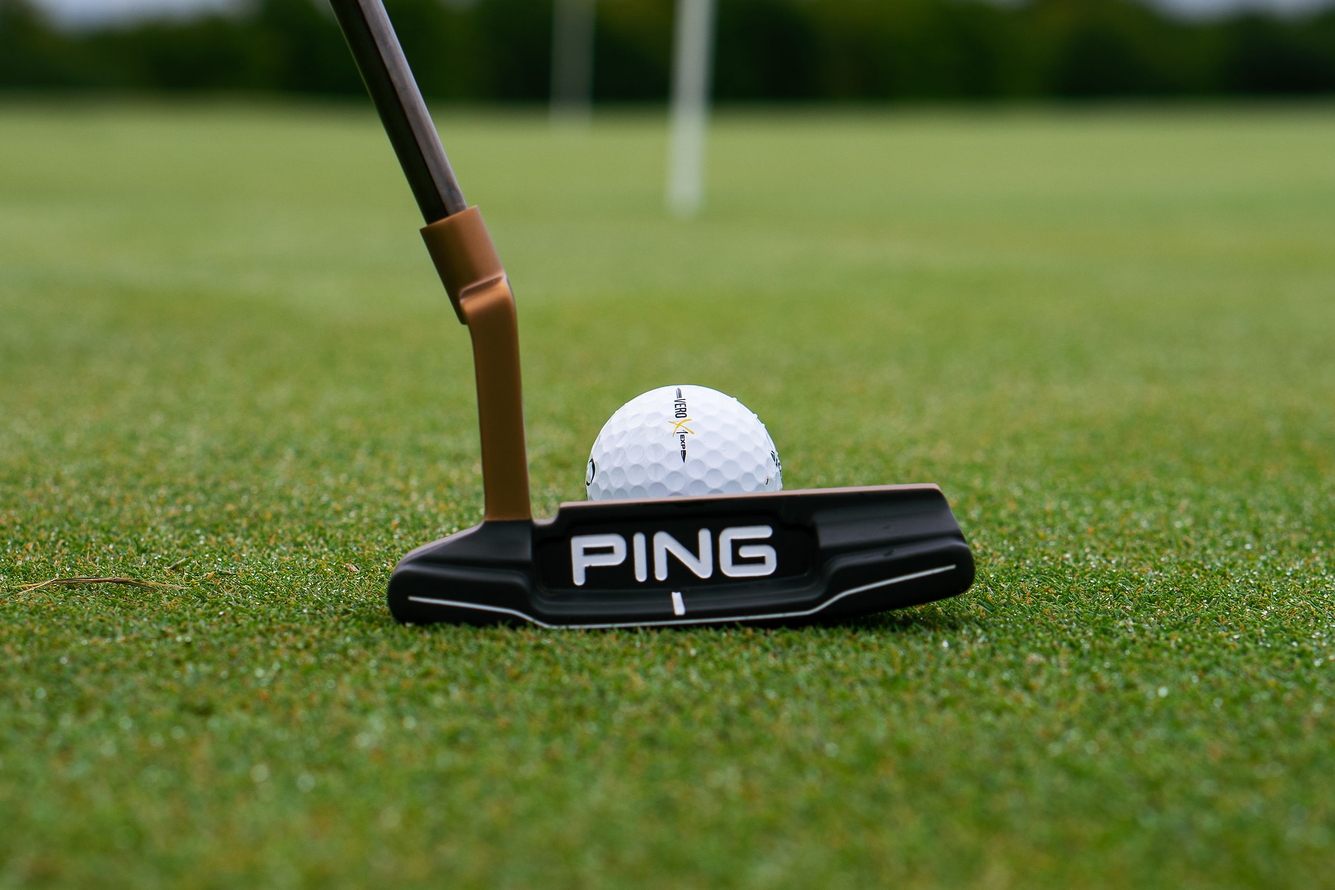
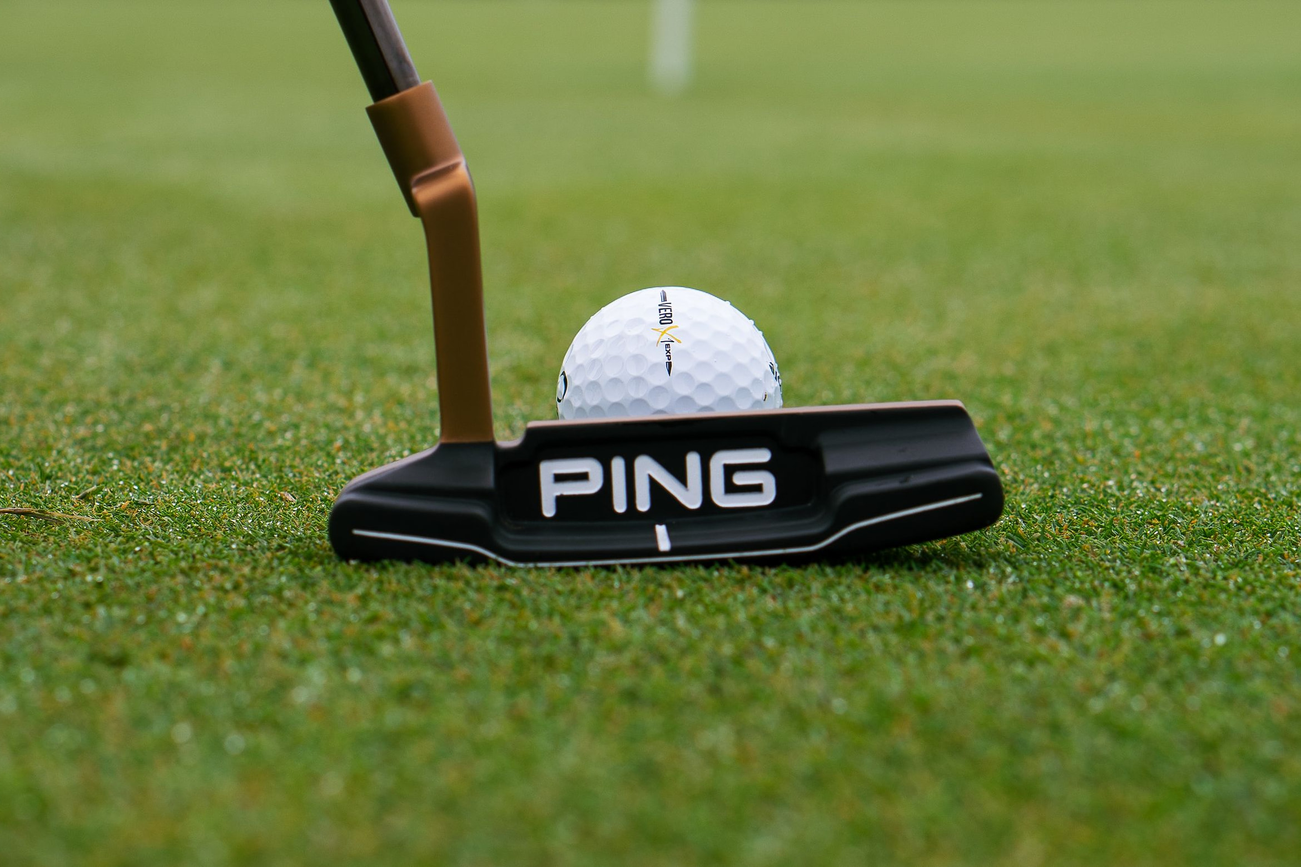
fix: the putter frame clears the tree line, and pagination stops at ten
The crop on the putter still started above the trees, so the frame opened
on a black band. It now starts below them and is grass and putter the whole
way up.

Pagination prints at most ten numbers. Two hundred and three clubs is
thirteen pages, and a strip of thirteen numbers is a strip nobody reads.
The run follows the page you are on, and the last page stays one press away
behind a gap.

diff --git a/src/components/shop/pagination.tsx b/src/components/shop/pagination.tsx
@@ -3,9 +3,32 @@ import { ChevronLeft, ChevronRight } from "lucide-react";
 
 /**
  * Pages as links, like the filters, so a shelf keeps one address per view and
- * paging costs no JavaScript. Ten products do not need this yet, but a rack
- * that cannot page is a rack that stops growing.
+ * paging costs no JavaScript.
+ *
+ * At most ten numbers, then a gap and the last page. Two hundred and three
+ * clubs is thirteen pages and every one of them printed is a strip of numbers
+ * nobody reads, so the window follows where you are and the far end stays
+ * reachable in one press.
  */
+const WINDOW = 10;
+
+/** the numbers to print: a run around the current page, then the last one */
+function pageNumbers(page: number, pages: number) {
+  if (pages <= WINDOW) {
+    return Array.from({ length: pages }, (_, index) => index + 1);
+  }
+
+  const run = WINDOW - 2;
+  let first = Math.max(1, page - Math.floor(run / 2));
+  const last = Math.min(pages - 1, first + run - 1);
+  first = Math.max(1, last - run + 1);
+
+  const numbers: (number | "gap")[] = [];
+  for (let number = first; number <= last; number++) numbers.push(number);
+  if (last < pages - 1) numbers.push("gap");
+  numbers.push(pages);
+  return numbers;
+}
 export function Pagination({
   page,
   pages,
@@ -32,7 +55,19 @@ export function Pagination({
         <ChevronLeft className="size-4" strokeWidth={1.75} />
       </Step>
 
-      {Array.from({ length: pages }, (_, index) => index + 1).map((number) => {
+      {pageNumbers(page, pages).map((number, index) => {
+        if (number === "gap") {
+          return (
+            <span
+              key={`gap-${index}`}
+              aria-hidden
+              className="grid size-9 place-items-center text-[0.9375rem] text-charcoal/35"
+            >
+              &hellip;
+            </span>
+          );
+        }
+
         const current = number === page;
         return (
           <Link
